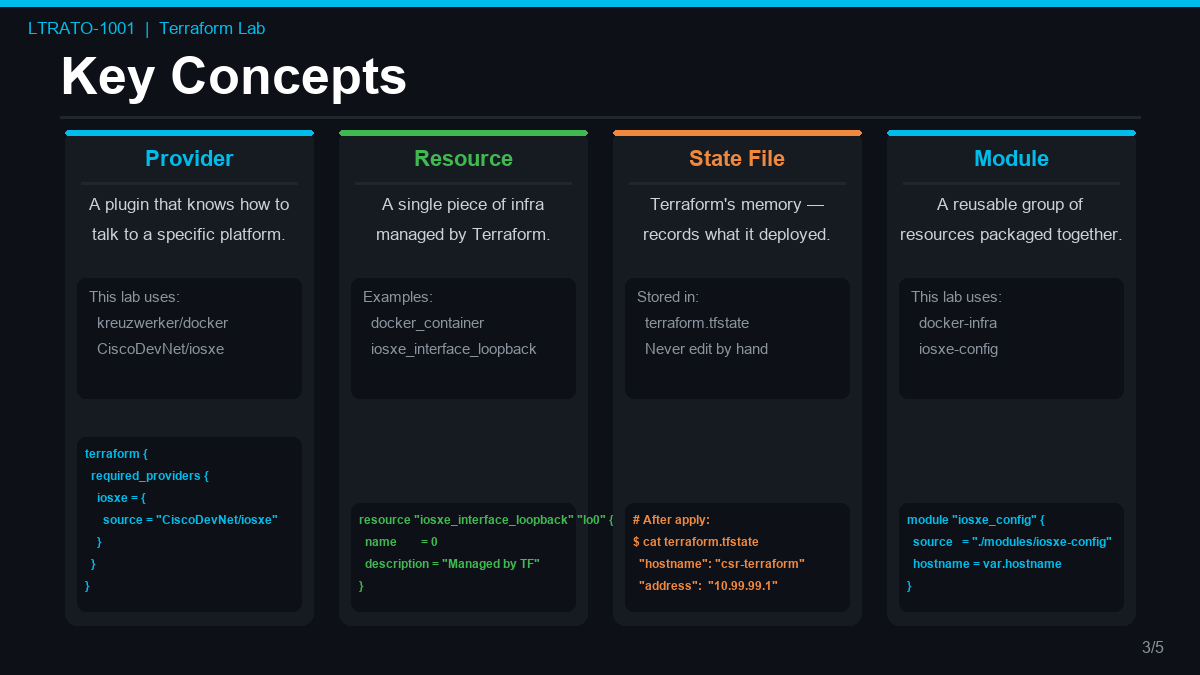
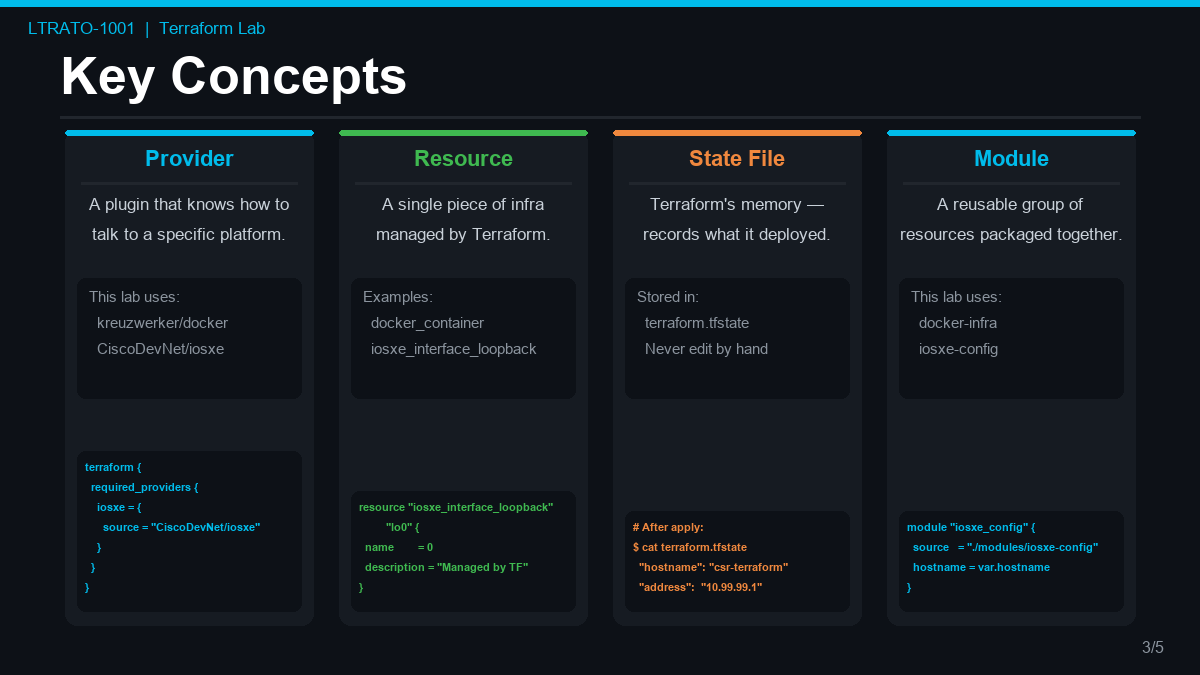
Fix Resource card code overflow: font 11, 5-line split, tighter line spacing

Changed region(s): [[0.2775, 0.7467, 0.6783, 0.8711], [0.74, 0.7467, 0.925, 0.8711], [0.0617, 0.6533, 0.2467, 0.8089]]

diff --git a/slides/generate_slides.py b/slides/generate_slides.py
@@ -318,7 +318,8 @@ def slide3():
             "Resource",
             ["A single piece of infra", "managed by Terraform."],
             ["Examples:", "  docker_container", "  iosxe_interface_loopback"],
-            'resource "iosxe_interface_loopback" "lo0" {',
+            'resource "iosxe_interface_loopback"',
+            '         "lo0" {',
             "  name        = 0",
             '  description = "Managed by TF"',
             "}",
@@ -371,14 +372,14 @@ def slide3():
             d.text((cx + 24, detail_y + 10 + j * 26), line, font=font(15), fill=GREY_MD)
 
         # Code example pill pinned to bottom
-        ex_h = len(code_lines) * 22 + 20
+        ex_h = len(code_lines) * 20 + 20
         ex_y = sy + CH - ex_h - 14
         pill(d, cx + 12, ex_y, CW - 24, ex_h, BG, r=8)
         for j, line in enumerate(code_lines):
             d.text(
-                (cx + 20, ex_y + 10 + j * 22),
+                (cx + 20, ex_y + 10 + j * 20),
                 line,
-                font=font(12, bold=True),
+                font=font(11, bold=True),
                 fill=color,
             )
 
